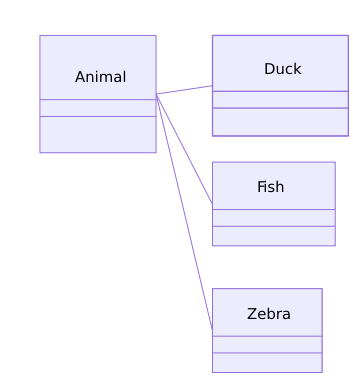
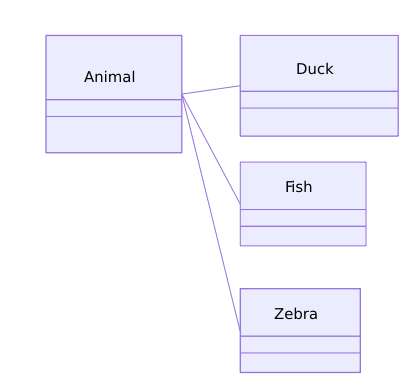
Fix text metrics: Use accurate width measurements with precise LabelLineHeight and multiline support

diff --git a/layout.go b/layout.go
@@ -3171,11 +3171,14 @@ func applyAspectRatio(layout *Layout, ratio *float64) {
 }
 
 func measureTextWidth(label string, fast bool) float64 {
-	perChar := 7.2
-	if fast {
-		perChar = 6.4
+	maxWidth := 0.0
+	for _, line := range splitLinesPreserve(label) {
+		w := measureTextWidthWithFontSize(line, 16.0, fast)
+		if w > maxWidth {
+			maxWidth = w
+		}
 	}
-	return float64(len([]rune(label))) * perChar
+	return maxWidth
 }
 
 func seriesColor(index int) string {

diff --git a/config.go b/config.go
@@ -375,7 +375,7 @@ func DefaultLayoutConfig() LayoutConfig {
 	return LayoutConfig{
 		NodeSpacing:     50,
 		RankSpacing:     50,
-		LabelLineHeight: 1.5,
+		LabelLineHeight: 1.15,
 		Pie:             DefaultPieConfig(),
 		GitGraph:        DefaultGitGraphConfig(),
 	}
